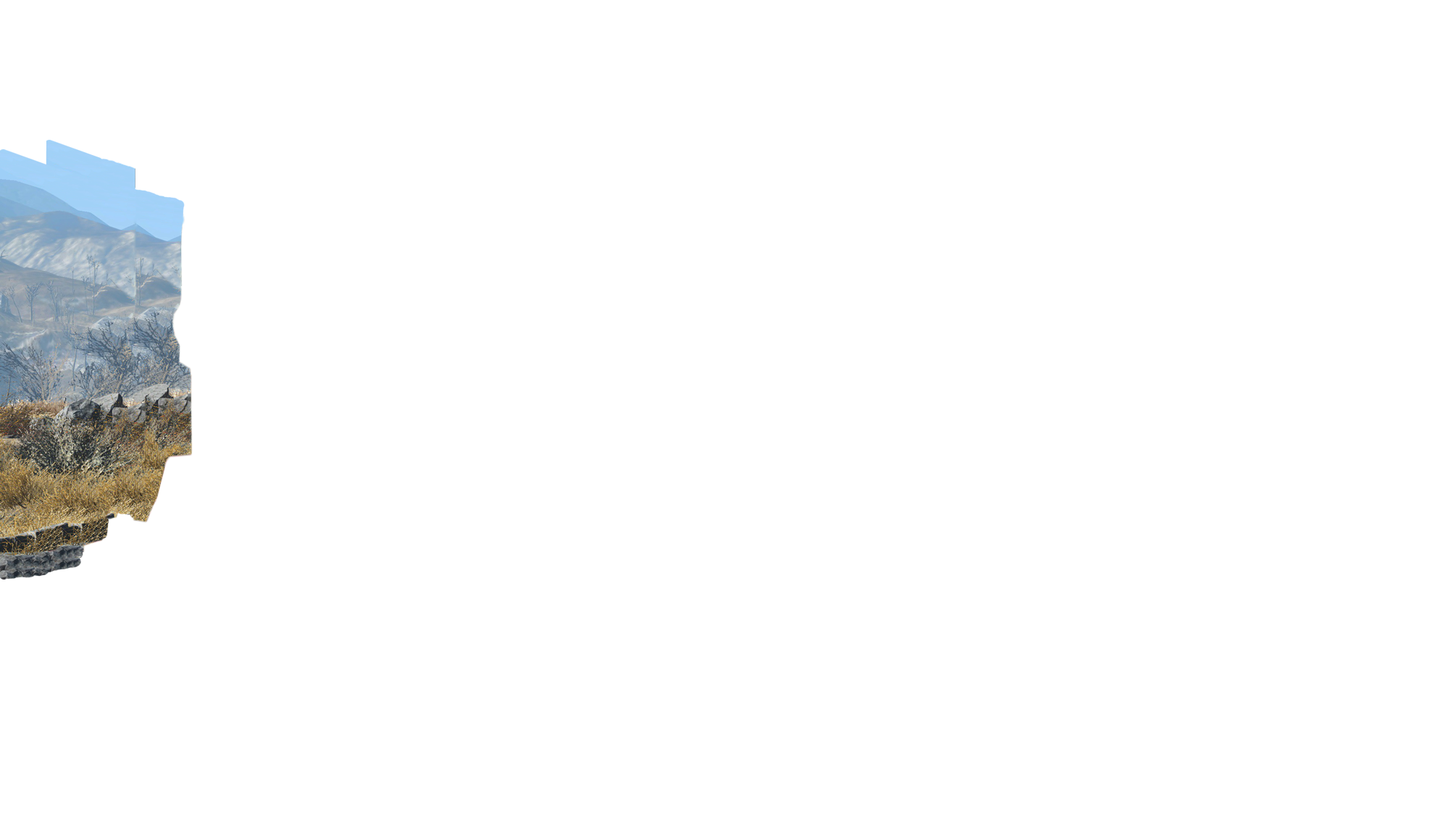
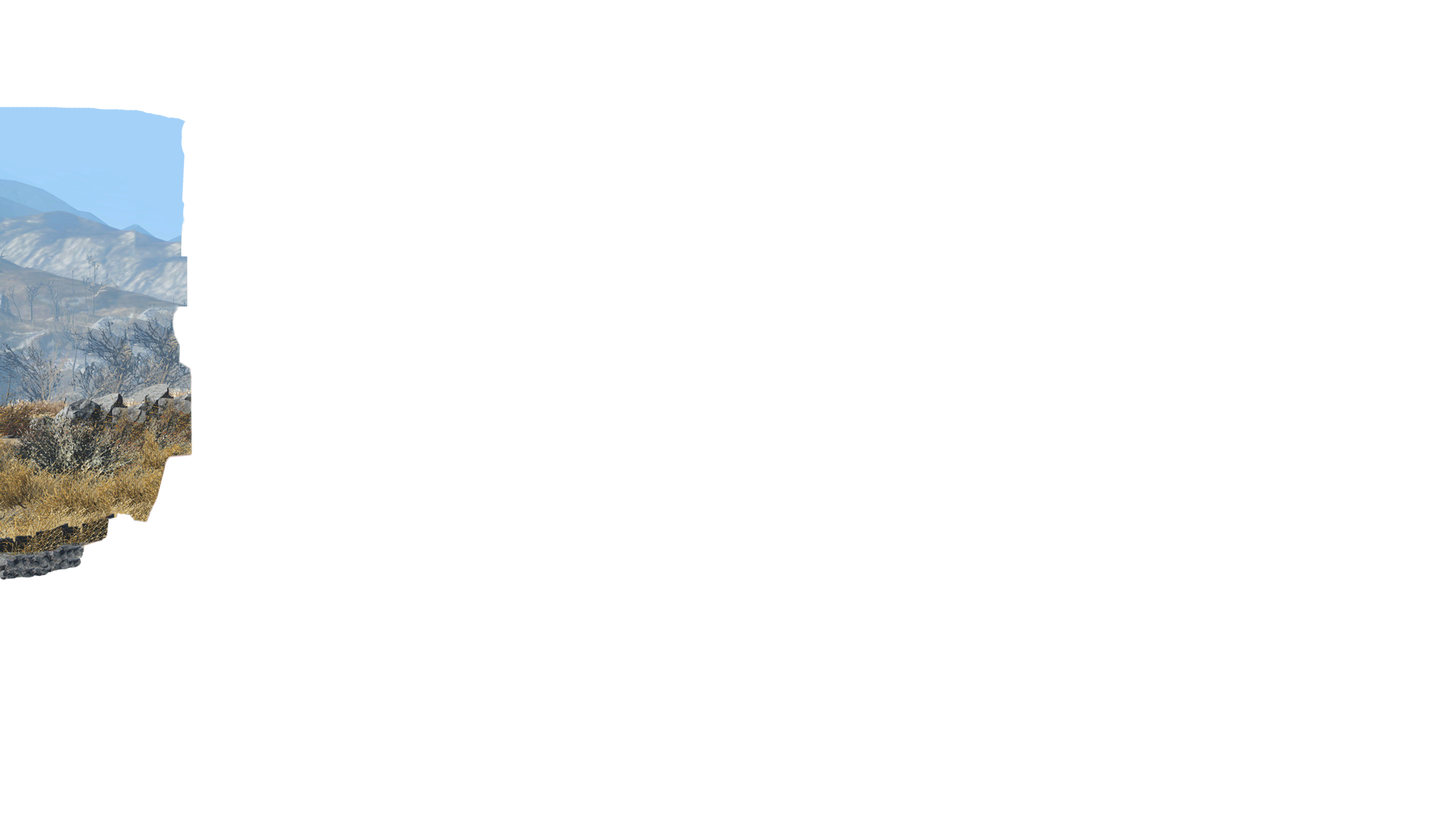
parallax step 2

diff --git a/docs/assets/styles/app.min.css b/docs/assets/styles/app.min.css
@@ -1,3 +1,3 @@
-/*! normalize.css v7.0.0 | MIT License | github.com/necolas/normalize.css */button,hr,input{overflow:visible}audio,canvas,progress,video{display:inline-block}progress,sub,sup{vertical-align:baseline}[type=checkbox],[type=radio],legend{box-sizing:border-box;padding:0}html{line-height:1.15;-ms-text-size-adjust:100%;-webkit-text-size-adjust:100%}body{margin:0}article,aside,details,figcaption,figure,footer,header,main,menu,nav,section{display:block}h1{font-size:2em;margin:.67em 0}figure{margin:1em 40px}hr{box-sizing:content-box;height:0}code,kbd,pre,samp{font-family:monospace,monospace;font-size:1em}a{background-color:transparent;-webkit-text-decoration-skip:objects}abbr[title]{border-bottom:none;text-decoration:underline;text-decoration:underline dotted}b,strong{font-weight:bolder}dfn{font-style:italic}mark{background-color:#ff0;color:#000}small{font-size:80%}sub,sup{font-size:75%;line-height:0;position:relative}sub{bottom:-.25em}sup{top:-.5em}audio:not([controls]){display:none;height:0}img{border-style:none}svg:not(:root){overflow:hidden}button,input,optgroup,select,textarea{font-family:sans-serif;font-size:100%;line-height:1.15;margin:0}button,select{text-transform:none}[type=reset],[type=submit],button,html [type=button]{-webkit-appearance:button}[type=button]::-moz-focus-inner,[type=reset]::-moz-focus-inner,[type=submit]::-moz-focus-inner,button::-moz-focus-inner{border-style:none;padding:0}[type=button]:-moz-focusring,[type=reset]:-moz-focusring,[type=submit]:-moz-focusring,button:-moz-focusring{outline:ButtonText dotted 1px}fieldset{padding:.35em .75em .625em}legend{color:inherit;display:table;max-width:100%;white-space:normal}textarea{overflow:auto}[type=number]::-webkit-inner-spin-button,[type=number]::-webkit-outer-spin-button{height:auto}[type=search]{-webkit-appearance:textfield;outline-offset:-2px}[type=search]::-webkit-search-cancel-button,[type=search]::-webkit-search-decoration{-webkit-appearance:none}::-webkit-file-upload-button{-webkit-appearance:button;font:inherit}summary{display:list-item}[hidden],template{display:none}@media screen and (max-width: 768px){html{font-size:rem(15px)}}@media screen and (max-width: 480px){html{font-size:rem(13px)}}html,body{width:100%;height:100%}body{font-size:rem(16px);line-height:1.42;position:relative;background-color:#2b2a28;-webkit-font-smoothing:antialiased}.wrapper{position:relative;width:100%;min-height:100%;overflow:hidden;min-width:400px}.page-container{margin:0 auto;position:relative;width:100%;display:flex;justify-content:center;align-items:center;flex-direction:column;justify-content:flex-start;height:auto;min-height:100vh}.responsive-img{max-width:100%;max-height:100%;margin-left:auto;margin-right:auto}h1,h2,h3,h4,h5,h6{margin-top:0;font-weight:normal}table{border-collapse:collapse;border-spacing:0}ul{padding:0;margin:0}ul li{list-style:none}p{padding:0;margin:0}footer{position:relative;width:100%}*{box-sizing:border-box}.parallax-wrapper{display:flex;flex-direction:column;justify-content:flex-start;position:relative;width:100%;height:100%;min-height:100vh;background:#2c2b29}#parallax{position:absolute;top:0;left:0;width:100%;height:100%;overflow:hidden;transform:scale(0.5)}.parallax__layer{height:100%;width:100%;position:absolute;top:0;left:0;will-change:transform}.parallax__image{position:absolute;top:0;max-height:110%;max-width:110%;user-select:none;color:black}.content{height:100%;width:100%}
+/*! normalize.css v7.0.0 | MIT License | github.com/necolas/normalize.css */button,hr,input{overflow:visible}audio,canvas,progress,video{display:inline-block}progress,sub,sup{vertical-align:baseline}[type=checkbox],[type=radio],legend{box-sizing:border-box;padding:0}html{line-height:1.15;-ms-text-size-adjust:100%;-webkit-text-size-adjust:100%}body{margin:0}article,aside,details,figcaption,figure,footer,header,main,menu,nav,section{display:block}h1{font-size:2em;margin:.67em 0}figure{margin:1em 40px}hr{box-sizing:content-box;height:0}code,kbd,pre,samp{font-family:monospace,monospace;font-size:1em}a{background-color:transparent;-webkit-text-decoration-skip:objects}abbr[title]{border-bottom:none;text-decoration:underline;text-decoration:underline dotted}b,strong{font-weight:bolder}dfn{font-style:italic}mark{background-color:#ff0;color:#000}small{font-size:80%}sub,sup{font-size:75%;line-height:0;position:relative}sub{bottom:-.25em}sup{top:-.5em}audio:not([controls]){display:none;height:0}img{border-style:none}svg:not(:root){overflow:hidden}button,input,optgroup,select,textarea{font-family:sans-serif;font-size:100%;line-height:1.15;margin:0}button,select{text-transform:none}[type=reset],[type=submit],button,html [type=button]{-webkit-appearance:button}[type=button]::-moz-focus-inner,[type=reset]::-moz-focus-inner,[type=submit]::-moz-focus-inner,button::-moz-focus-inner{border-style:none;padding:0}[type=button]:-moz-focusring,[type=reset]:-moz-focusring,[type=submit]:-moz-focusring,button:-moz-focusring{outline:ButtonText dotted 1px}fieldset{padding:.35em .75em .625em}legend{color:inherit;display:table;max-width:100%;white-space:normal}textarea{overflow:auto}[type=number]::-webkit-inner-spin-button,[type=number]::-webkit-outer-spin-button{height:auto}[type=search]{-webkit-appearance:textfield;outline-offset:-2px}[type=search]::-webkit-search-cancel-button,[type=search]::-webkit-search-decoration{-webkit-appearance:none}::-webkit-file-upload-button{-webkit-appearance:button;font:inherit}summary{display:list-item}[hidden],template{display:none}@media screen and (max-width: 768px){html{font-size:rem(15px)}}@media screen and (max-width: 480px){html{font-size:rem(13px)}}html,body{width:100%;height:100%}body{font-size:rem(16px);line-height:1.42;position:relative;background-color:#2b2a28;-webkit-font-smoothing:antialiased}.wrapper{position:relative;width:100%;min-height:100%;overflow:hidden;min-width:400px}.page-container{margin:0 auto;position:relative;width:100%;display:flex;justify-content:center;align-items:center;flex-direction:column;justify-content:flex-start;height:auto;min-height:100vh}.responsive-img{max-width:100%;max-height:100%;margin-left:auto;margin-right:auto}h1,h2,h3,h4,h5,h6{margin-top:0;font-weight:normal}table{border-collapse:collapse;border-spacing:0}ul{padding:0;margin:0}ul li{list-style:none}p{padding:0;margin:0}footer{position:relative;width:100%}*{box-sizing:border-box}.parallax-wrapper{display:flex;flex-direction:column;justify-content:flex-start;position:relative;width:100%;height:100%;min-height:100vh;background:#2c2b29}#parallax{position:absolute;top:0;left:0;width:100%;height:100%;overflow:hidden}.parallax__layer{height:100%;width:100%;position:absolute;top:0;left:0;will-change:transform;color:black}.parallax__image{position:absolute;top:0;max-height:110%;max-width:110%;user-select:none;color:black}.parallax__grass{color:black}.content{height:100%;width:100%}
 
[2 lines of base64/hex data omitted]

diff --git a/docs/assets/scripts/bundle.js b/docs/assets/scripts/bundle.js
@@ -1,6 +1,6 @@
-!function(t){function e(n){if(i[n])return i[n].exports;var o=i[n]={i:n,l:!1,exports:{}};return t[n].call(o.exports,o,o.exports,e),o.l=!0,o.exports}var i={};e.m=t,e.c=i,e.d=function(t,i,n){e.o(t,i)||Object.defineProperty(t,i,{configurable:!1,enumerable:!0,get:n})},e.n=function(t){var i=t&&t.__esModule?function(){return t.default}:function(){return t};return e.d(i,"a",i),i},e.o=function(t,e){return Object.prototype.hasOwnProperty.call(t,e)},e.p="",e(e.s=0)}([function(t,e,i){i(1)},function(t,e,i){"use strict";Object.defineProperty(e,"__esModule",{value:!0});var n=i(2),o=i.n(n);document.addEventListener("DOMContentLoaded",t=>{let e=document.getElementById("parallax");console.log(e);new o.a(e)})},function(t,e,i){(function(e){var i;!function(e){t.exports=e()}(function(){return function t(e,n,o){function r(a,l){if(!n[a]){if(!e[a]){if(!l&&("function"==typeof i&&i))return i(a,!0);if(s)return s(a,!0);var h=new Error("Cannot find module '"+a+"'");throw h.code="MODULE_NOT_FOUND",h}var u=n[a]={exports:{}};e[a][0].call(u.exports,function(t){var i=e[a][1][t];return r(i||t)},u,u.exports,t,e,n,o)}return n[a].exports}for(var s="function"==typeof i&&i,a=0;a<o.length;a++)r(o[a]);return r}({1:[function(t,e,i){/*
+!function(t){function e(n){if(i[n])return i[n].exports;var o=i[n]={i:n,l:!1,exports:{}};return t[n].call(o.exports,o,o.exports,e),o.l=!0,o.exports}var i={};e.m=t,e.c=i,e.d=function(t,i,n){e.o(t,i)||Object.defineProperty(t,i,{configurable:!1,enumerable:!0,get:n})},e.n=function(t){var i=t&&t.__esModule?function(){return t.default}:function(){return t};return e.d(i,"a",i),i},e.o=function(t,e){return Object.prototype.hasOwnProperty.call(t,e)},e.p="",e(e.s=0)}([function(t,e,i){i(1)},function(t,e,i){"use strict";Object.defineProperty(e,"__esModule",{value:!0});var n=i(2),o=i.n(n);document.addEventListener("DOMContentLoaded",t=>{let e=document.getElementById("parallax");console.log(e);new o.a(e,{clipRelativeInput:!0})})},function(t,e,i){(function(e){var i;!function(e){t.exports=e()}(function(){return function t(e,n,o){function r(a,l){if(!n[a]){if(!e[a]){var h="function"==typeof i&&i;if(!l&&h)return i(a,!0);if(s)return s(a,!0);var u=new Error("Cannot find module '"+a+"'");throw u.code="MODULE_NOT_FOUND",u}var c=n[a]={exports:{}};e[a][0].call(c.exports,function(t){var i=e[a][1][t];return r(i||t)},c,c.exports,t,e,n,o)}return n[a].exports}for(var s="function"==typeof i&&i,a=0;a<o.length;a++)r(o[a]);return r}({1:[function(t,e,i){/*
 object-assign
 (c) Sindre Sorhus
 @license MIT
 */
-"use strict";var n=Object.getOwnPropertySymbols,o=Object.prototype.hasOwnProperty,r=Object.prototype.propertyIsEnumerable;e.exports=function(){try{if(!Object.assign)return!1;var t=new String("abc");if(t[5]="de","5"===Object.getOwnPropertyNames(t)[0])return!1;for(var e={},i=0;i<10;i++)e["_"+String.fromCharCode(i)]=i;if("0123456789"!==Object.getOwnPropertyNames(e).map(function(t){return e[t]}).join(""))return!1;var n={};return"abcdefghijklmnopqrst".split("").forEach(function(t){n[t]=t}),"abcdefghijklmnopqrst"===Object.keys(Object.assign({},n)).join("")}catch(t){return!1}}()?Object.assign:function(t,e){for(var i,s,a=function(t){if(null===t||void 0===t)throw new TypeError("Object.assign cannot be called with null or undefined");return Object(t)}(t),l=1;l<arguments.length;l++){i=Object(arguments[l]);for(var h in i)o.call(i,h)&&(a[h]=i[h]);if(n){s=n(i);for(var u=0;u<s.length;u++)r.call(i,s[u])&&(a[s[u]]=i[s[u]])}}return a}},{}],2:[function(t,e,i){(function(t){(function(){var i,n,o,r,s,a;"undefined"!=typeof performance&&null!==performance&&performance.now?e.exports=function(){return performance.now()}:void 0!==t&&null!==t&&t.hrtime?(e.exports=function(){return(i()-s)/1e6},n=t.hrtime,r=(i=function(){var t;return 1e9*(t=n())[0]+t[1]})(),a=1e9*t.uptime(),s=r-a):Date.now?(e.exports=function(){return Date.now()-o},o=Date.now()):(e.exports=function(){return(new Date).getTime()-o},o=(new Date).getTime())}).call(this)}).call(this,t("_process"))},{_process:3}],3:[function(t,e,i){function n(){throw new Error("setTimeout has not been defined")}function o(){throw new Error("clearTimeout has not been defined")}function r(t){if(u===setTimeout)return setTimeout(t,0);if((u===n||!u)&&setTimeout)return u=setTimeout,setTimeout(t,0);try{return u(t,0)}catch(e){try{return u.call(null,t,0)}catch(e){return u.call(this,t,0)}}}function s(){f&&m&&(f=!1,m.length?p=m.concat(p):v=-1,p.length&&a())}function a(){if(!f){var t=r(s);f=!0;for(var e=p.length;e;){for(m=p,p=[];++v<e;)m&&m[v].run();v=-1,e=p.length}m=null,f=!1,function(t){if(c===clearTimeout)return clearTimeout(t);if((c===o||!c)&&clearTimeout)return c=clearTimeout,clearTimeout(t);try{c(t)}catch(e){try{return c.call(null,t)}catch(e){return c.call(this,t)}}}(t)}}function l(t,e){this.fun=t,this.array=e}function h(){}var u,c,d=e.exports={};!function(){try{u="function"==typeof setTimeout?setTimeout:n}catch(t){u=n}try{c="function"==typeof clearTimeout?clearTimeout:o}catch(t){c=o}}();var m,p=[],f=!1,v=-1;d.nextTick=function(t){var e=new Array(arguments.length-1);if(arguments.length>1)for(var i=1;i<arguments.length;i++)e[i-1]=arguments[i];p.push(new l(t,e)),1!==p.length||f||r(a)},l.prototype.run=function(){this.fun.apply(null,this.array)},d.title="browser",d.browser=!0,d.env={},d.argv=[],d.version="",d.versions={},d.on=h,d.addListener=h,d.once=h,d.off=h,d.removeListener=h,d.removeAllListeners=h,d.emit=h,d.prependListener=h,d.prependOnceListener=h,d.listeners=function(t){return[]},d.binding=function(t){throw new Error("process.binding is not supported")},d.cwd=function(){return"/"},d.chdir=function(t){throw new Error("process.chdir is not supported")},d.umask=function(){return 0}},{}],4:[function(t,i,n){(function(e){for(var n=t("performance-now"),o="undefined"==typeof window?e:window,r=["moz","webkit"],s="AnimationFrame",a=o["request"+s],l=o["cancel"+s]||o["cancelRequest"+s],h=0;!a&&h<r.length;h++)a=o[r[h]+"Request"+s],l=o[r[h]+"Cancel"+s]||o[r[h]+"CancelRequest"+s];if(!a||!l){var u=0,c=0,d=[];a=function(t){if(0===d.length){var e=n(),i=Math.max(0,1e3/60-(e-u));u=i+e,setTimeout(function(){var t=d.slice(0);d.length=0;for(var e=0;e<t.length;e++)if(!t[e].cancelled)try{t[e].callback(u)}catch(t){setTimeout(function(){throw t},0)}},Math.round(i))}return d.push({handle:++c,callback:t,cancelled:!1}),c},l=function(t){for(var e=0;e<d.length;e++)d[e].handle===t&&(d[e].cancelled=!0)}}i.exports=function(t){return a.call(o,t)},i.exports.cancel=function(){l.apply(o,arguments)},i.exports.polyfill=function(){o.requestAnimationFrame=a,o.cancelAnimationFrame=l}}).call(this,void 0!==e?e:"undefined"!=typeof self?self:"undefined"!=typeof window?window:{})},{"performance-now":2}],5:[function(t,e,i){"use strict";var n=function(){function t(t,e){for(var i=0;i<e.length;i++){var n=e[i];n.enumerable=n.enumerable||!1,n.configurable=!0,"value"in n&&(n.writable=!0),Object.defineProperty(t,n.key,n)}}return function(e,i,n){return i&&t(e.prototype,i),n&&t(e,n),e}}(),o=t("raf"),r=t("object-assign"),s={propertyCache:{},vendors:[null,["-webkit-","webkit"],["-moz-","Moz"],["-o-","O"],["-ms-","ms"]],clamp:function(t,e,i){return e<i?t<e?e:t>i?i:t:t<i?i:t>e?e:t},data:function(t,e){return s.deserialize(t.getAttribute("data-"+e))},deserialize:function(t){return"true"===t||"false"!==t&&("null"===t?null:!isNaN(parseFloat(t))&&isFinite(t)?parseFloat(t):t)},camelCase:function(t){return t.replace(/-+(.)?/g,function(t,e){return e?e.toUpperCase():""})},accelerate:function(t){s.css(t,"transform","translate3d(0,0,0) rotate(0.0001deg)"),s.css(t,"transform-style","preserve-3d"),s.css(t,"backface-visibility","hidden")},transformSupport:function(t){for(var e=document.createElement("div"),i=!1,n=null,o=!1,r=null,a=null,l=0,h=s.vendors.length;l<h;l++)if(null!==s.vendors[l]?(r=s.vendors[l][0]+"transform",a=s.vendors[l][1]+"Transform"):(r="transform",a="transform"),void 0!==e.style[a]){i=!0;break}switch(t){case"2D":o=i;break;case"3D":if(i){var u=document.body||document.createElement("body"),c=document.documentElement,d=c.style.overflow,m=!1;document.body||(m=!0,c.style.overflow="hidden",c.appendChild(u),u.style.overflow="hidden",u.style.background=""),u.appendChild(e),e.style[a]="translate3d(1px,1px,1px)",o=void 0!==(n=window.getComputedStyle(e).getPropertyValue(r))&&n.length>0&&"none"!==n,c.style.overflow=d,u.removeChild(e),m&&(u.removeAttribute("style"),u.parentNode.removeChild(u))}}return o},css:function(t,e,i){var n=s.propertyCache[e];if(!n)for(var o=0,r=s.vendors.length;o<r;o++)if(n=null!==s.vendors[o]?s.camelCase(s.vendors[o][1]+"-"+e):e,void 0!==t.style[n]){s.propertyCache[e]=n;break}t.style[n]=i}},a={relativeInput:!1,clipRelativeInput:!1,inputElement:null,hoverOnly:!1,calibrationThreshold:100,calibrationDelay:500,supportDelay:500,calibrateX:!1,calibrateY:!0,invertX:!0,invertY:!0,limitX:!1,limitY:!1,scalarX:10,scalarY:10,frictionX:.1,frictionY:.1,originX:.5,originY:.5,pointerEvents:!1,precision:1,onReady:null,selector:null},l=function(){function t(e,i){!function(t,e){if(!(t instanceof e))throw new TypeError("Cannot call a class as a function")}(this,t),this.element=e;var n={calibrateX:s.data(this.element,"calibrate-x"),calibrateY:s.data(this.element,"calibrate-y"),invertX:s.data(this.element,"invert-x"),invertY:s.data(this.element,"invert-y"),limitX:s.data(this.element,"limit-x"),limitY:s.data(this.element,"limit-y"),scalarX:s.data(this.element,"scalar-x"),scalarY:s.data(this.element,"scalar-y"),frictionX:s.data(this.element,"friction-x"),frictionY:s.data(this.element,"friction-y"),originX:s.data(this.element,"origin-x"),originY:s.data(this.element,"origin-y"),pointerEvents:s.data(this.element,"pointer-events"),precision:s.data(this.element,"precision"),relativeInput:s.data(this.element,"relative-input"),clipRelativeInput:s.data(this.element,"clip-relative-input"),hoverOnly:s.data(this.element,"hover-only"),inputElement:document.querySelector(s.data(this.element,"input-element")),selector:s.data(this.element,"selector")};for(var o in n)null===n[o]&&delete n[o];r(this,a,n,i),this.inputElement||(this.inputElement=this.element),this.calibrationTimer=null,this.calibrationFlag=!0,this.enabled=!1,this.depthsX=[],this.depthsY=[],this.raf=null,this.bounds=null,this.elementPositionX=0,this.elementPositionY=0,this.elementWidth=0,this.elementHeight=0,this.elementCenterX=0,this.elementCenterY=0,this.elementRangeX=0,this.elementRangeY=0,this.calibrationX=0,this.calibrationY=0,this.inputX=0,this.inputY=0,this.motionX=0,this.motionY=0,this.velocityX=0,this.velocityY=0,this.onMouseMove=this.onMouseMove.bind(this),this.onDeviceOrientation=this.onDeviceOrientation.bind(this),this.onDeviceMotion=this.onDeviceMotion.bind(this),this.onOrientationTimer=this.onOrientationTimer.bind(this),this.onMotionTimer=this.onMotionTimer.bind(this),this.onCalibrationTimer=this.onCalibrationTimer.bind(this),this.onAnimationFrame=this.onAnimationFrame.bind(this),this.onWindowResize=this.onWindowResize.bind(this),this.windowWidth=null,this.windowHeight=null,this.windowCenterX=null,this.windowCenterY=null,this.windowRadiusX=null,this.windowRadiusY=null,this.portrait=!1,this.desktop=!navigator.userAgent.match(/(iPhone|iPod|iPad|Android|BlackBerry|BB10|mobi|tablet|opera mini|nexus 7)/i),this.motionSupport=!!window.DeviceMotionEvent&&!this.desktop,this.orientationSupport=!!window.DeviceOrientationEvent&&!this.desktop,this.orientationStatus=0,this.motionStatus=0,this.initialise()}return n(t,[{key:"initialise",value:function(){void 0===this.transform2DSupport&&(this.transform2DSupport=s.transformSupport("2D"),this.transform3DSupport=s.transformSupport("3D")),this.transform3DSupport&&s.accelerate(this.element);"static"===window.getComputedStyle(this.element).getPropertyValue("position")&&(this.element.style.position="relative"),this.pointerEvents||(this.element.style.pointerEvents="none"),this.updateLayers(),this.updateDimensions(),this.enable(),this.queueCalibration(this.calibrationDelay)}},{key:"doReadyCallback",value:function(){this.onReady&&this.onReady()}},{key:"updateLayers",value:function(){this.selector?this.layers=this.element.querySelectorAll(this.selector):this.layers=this.element.children,this.layers.length||console.warn("ParallaxJS: Your scene does not have any layers."),this.depthsX=[],this.depthsY=[];for(var t=0;t<this.layers.length;t++){var e=this.layers[t];this.transform3DSupport&&s.accelerate(e),e.style.position=t?"absolute":"relative",e.style.display="block",e.style.left=0,e.style.top=0;var i=s.data(e,"depth")||0;this.depthsX.push(s.data(e,"depth-x")||i),this.depthsY.push(s.data(e,"depth-y")||i)}}},{key:"updateDimensions",value:function(){this.windowWidth=window.innerWidth,this.windowHeight=window.innerHeight,this.windowCenterX=this.windowWidth*this.originX,this.windowCenterY=this.windowHeight*this.originY,this.windowRadiusX=Math.max(this.windowCenterX,this.windowWidth-this.windowCenterX),this.windowRadiusY=Math.max(this.windowCenterY,this.windowHeight-this.windowCenterY)}},{key:"updateBounds",value:function(){this.bounds=this.inputElement.getBoundingClientRect(),this.elementPositionX=this.bounds.left,this.elementPositionY=this.bounds.top,this.elementWidth=this.bounds.width,this.elementHeight=this.bounds.height,this.elementCenterX=this.elementWidth*this.originX,this.elementCenterY=this.elementHeight*this.originY,this.elementRangeX=Math.max(this.elementCenterX,this.elementWidth-this.elementCenterX),this.elementRangeY=Math.max(this.elementCenterY,this.elementHeight-this.elementCenterY)}},{key:"queueCalibration",value:function(t){clearTimeout(this.calibrationTimer),this.calibrationTimer=setTimeout(this.onCalibrationTimer,t)}},{key:"enable",value:function(){this.enabled||(this.enabled=!0,this.orientationSupport?(this.portrait=!1,window.addEventListener("deviceorientation",this.onDeviceOrientation),this.detectionTimer=setTimeout(this.onOrientationTimer,this.supportDelay)):this.motionSupport?(this.portrait=!1,window.addEventListener("devicemotion",this.onDeviceMotion),this.detectionTimer=setTimeout(this.onMotionTimer,this.supportDelay)):(this.calibrationX=0,this.calibrationY=0,this.portrait=!1,window.addEventListener("mousemove",this.onMouseMove),this.doReadyCallback()),window.addEventListener("resize",this.onWindowResize),this.raf=o(this.onAnimationFrame))}},{key:"disable",value:function(){this.enabled&&(this.enabled=!1,this.orientationSupport?window.removeEventListener("deviceorientation",this.onDeviceOrientation):this.motionSupport?window.removeEventListener("devicemotion",this.onDeviceMotion):window.removeEventListener("mousemove",this.onMouseMove),window.removeEventListener("resize",this.onWindowResize),o.cancel(this.raf))}},{key:"calibrate",value:function(t,e){this.calibrateX=void 0===t?this.calibrateX:t,this.calibrateY=void 0===e?this.calibrateY:e}},{key:"invert",value:function(t,e){this.invertX=void 0===t?this.invertX:t,this.invertY=void 0===e?this.invertY:e}},{key:"friction",value:function(t,e){this.frictionX=void 0===t?this.frictionX:t,this.frictionY=void 0===e?this.frictionY:e}},{key:"scalar",value:function(t,e){this.scalarX=void 0===t?this.scalarX:t,this.scalarY=void 0===e?this.scalarY:e}},{key:"limit",value:function(t,e){this.limitX=void 0===t?this.limitX:t,this.limitY=void 0===e?this.limitY:e}},{key:"origin",value:function(t,e){this.originX=void 0===t?this.originX:t,this.originY=void 0===e?this.originY:e}},{key:"setInputElement",value:function(t){this.inputElement=t,this.updateDimensions()}},{key:"setPosition",value:function(t,e,i){e=e.toFixed(this.precision)+"px",i=i.toFixed(this.precision)+"px",this.transform3DSupport?s.css(t,"transform","translate3d("+e+","+i+",0)"):this.transform2DSupport?s.css(t,"transform","translate("+e+","+i+")"):(t.style.left=e,t.style.top=i)}},{key:"onOrientationTimer",value:function(){this.orientationSupport&&0===this.orientationStatus?(this.disable(),this.orientationSupport=!1,this.enable()):this.doReadyCallback()}},{key:"onMotionTimer",value:function(){this.motionSupport&&0===this.motionStatus?(this.disable(),this.motionSupport=!1,this.enable()):this.doReadyCallback()}},{key:"onCalibrationTimer",value:function(){this.calibrationFlag=!0}},{key:"onWindowResize",value:function(){this.updateDimensions()}},{key:"onAnimationFrame",value:function(){this.updateBounds();var t=this.inputX-this.calibrationX,e=this.inputY-this.calibrationY;(Math.abs(t)>this.calibrationThreshold||Math.abs(e)>this.calibrationThreshold)&&this.queueCalibration(0),this.portrait?(this.motionX=this.calibrateX?e:this.inputY,this.motionY=this.calibrateY?t:this.inputX):(this.motionX=this.calibrateX?t:this.inputX,this.motionY=this.calibrateY?e:this.inputY),this.motionX*=this.elementWidth*(this.scalarX/100),this.motionY*=this.elementHeight*(this.scalarY/100),isNaN(parseFloat(this.limitX))||(this.motionX=s.clamp(this.motionX,-this.limitX,this.limitX)),isNaN(parseFloat(this.limitY))||(this.motionY=s.clamp(this.motionY,-this.limitY,this.limitY)),this.velocityX+=(this.motionX-this.velocityX)*this.frictionX,this.velocityY+=(this.motionY-this.velocityY)*this.frictionY;for(var i=0;i<this.layers.length;i++){var n=this.layers[i],r=this.depthsX[i],a=this.depthsY[i],l=this.velocityX*(r*(this.invertX?-1:1)),h=this.velocityY*(a*(this.invertY?-1:1));this.setPosition(n,l,h)}this.raf=o(this.onAnimationFrame)}},{key:"rotate",value:function(t,e){var i=(t||0)/30,n=(e||0)/30,o=this.windowHeight>this.windowWidth;this.portrait!==o&&(this.portrait=o,this.calibrationFlag=!0),this.calibrationFlag&&(this.calibrationFlag=!1,this.calibrationX=i,this.calibrationY=n),this.inputX=i,this.inputY=n}},{key:"onDeviceOrientation",value:function(t){var e=t.beta,i=t.gamma;null!==e&&null!==i&&(this.orientationStatus=1,this.rotate(e,i))}},{key:"onDeviceMotion",value:function(t){var e=t.rotationRate.beta,i=t.rotationRate.gamma;null!==e&&null!==i&&(this.motionStatus=1,this.rotate(e,i))}},{key:"onMouseMove",value:function(t){var e=t.clientX,i=t.clientY;if(this.hoverOnly&&(e<this.elementPositionX||e>this.elementPositionX+this.elementWidth||i<this.elementPositionY||i>this.elementPositionY+this.elementHeight))return this.inputX=0,void(this.inputY=0);this.relativeInput?(this.clipRelativeInput&&(e=Math.max(e,this.elementPositionX),e=Math.min(e,this.elementPositionX+this.elementWidth),i=Math.max(i,this.elementPositionY),i=Math.min(i,this.elementPositionY+this.elementHeight)),this.elementRangeX&&this.elementRangeY&&(this.inputX=(e-this.elementPositionX-this.elementCenterX)/this.elementRangeX,this.inputY=(i-this.elementPositionY-this.elementCenterY)/this.elementRangeY)):this.windowRadiusX&&this.windowRadiusY&&(this.inputX=(e-this.windowCenterX)/this.windowRadiusX,this.inputY=(i-this.windowCenterY)/this.windowRadiusY)}},{key:"destroy",value:function(){this.disable(),clearTimeout(this.calibrationTimer),clearTimeout(this.detectionTimer),this.element.removeAttribute("style");for(var t=0;t<this.layers.length;t++)this.layers[t].removeAttribute("style");delete this.element,delete this.layers}},{key:"version",value:function(){return"3.1.0"}}]),t}();e.exports=l},{"object-assign":1,raf:4}]},{},[5])(5)})}).call(e,i(3))},function(t,e){var i;i=function(){return this}();try{i=i||Function("return this")()||(0,eval)("this")}catch(t){"object"==typeof window&&(i=window)}t.exports=i}]);
+"use strict";function n(t){if(null===t||void 0===t)throw new TypeError("Object.assign cannot be called with null or undefined");return Object(t)}var o=Object.getOwnPropertySymbols,r=Object.prototype.hasOwnProperty,s=Object.prototype.propertyIsEnumerable;e.exports=function(){try{if(!Object.assign)return!1;var t=new String("abc");if(t[5]="de","5"===Object.getOwnPropertyNames(t)[0])return!1;for(var e={},i=0;i<10;i++)e["_"+String.fromCharCode(i)]=i;if("0123456789"!==Object.getOwnPropertyNames(e).map(function(t){return e[t]}).join(""))return!1;var n={};return"abcdefghijklmnopqrst".split("").forEach(function(t){n[t]=t}),"abcdefghijklmnopqrst"===Object.keys(Object.assign({},n)).join("")}catch(t){return!1}}()?Object.assign:function(t,e){for(var i,a,l=n(t),h=1;h<arguments.length;h++){i=Object(arguments[h]);for(var u in i)r.call(i,u)&&(l[u]=i[u]);if(o){a=o(i);for(var c=0;c<a.length;c++)s.call(i,a[c])&&(l[a[c]]=i[a[c]])}}return l}},{}],2:[function(t,e,i){(function(t){(function(){var i,n,o,r,s,a;"undefined"!=typeof performance&&null!==performance&&performance.now?e.exports=function(){return performance.now()}:void 0!==t&&null!==t&&t.hrtime?(e.exports=function(){return(i()-s)/1e6},n=t.hrtime,r=(i=function(){var t;return 1e9*(t=n())[0]+t[1]})(),a=1e9*t.uptime(),s=r-a):Date.now?(e.exports=function(){return Date.now()-o},o=Date.now()):(e.exports=function(){return(new Date).getTime()-o},o=(new Date).getTime())}).call(this)}).call(this,t("_process"))},{_process:3}],3:[function(t,e,i){function n(){throw new Error("setTimeout has not been defined")}function o(){throw new Error("clearTimeout has not been defined")}function r(t){if(c===setTimeout)return setTimeout(t,0);if((c===n||!c)&&setTimeout)return c=setTimeout,setTimeout(t,0);try{return c(t,0)}catch(e){try{return c.call(null,t,0)}catch(e){return c.call(this,t,0)}}}function s(t){if(d===clearTimeout)return clearTimeout(t);if((d===o||!d)&&clearTimeout)return d=clearTimeout,clearTimeout(t);try{return d(t)}catch(e){try{return d.call(null,t)}catch(e){return d.call(this,t)}}}function a(){v&&p&&(v=!1,p.length?f=p.concat(f):y=-1,f.length&&l())}function l(){if(!v){var t=r(a);v=!0;for(var e=f.length;e;){for(p=f,f=[];++y<e;)p&&p[y].run();y=-1,e=f.length}p=null,v=!1,s(t)}}function h(t,e){this.fun=t,this.array=e}function u(){}var c,d,m=e.exports={};!function(){try{c="function"==typeof setTimeout?setTimeout:n}catch(t){c=n}try{d="function"==typeof clearTimeout?clearTimeout:o}catch(t){d=o}}();var p,f=[],v=!1,y=-1;m.nextTick=function(t){var e=new Array(arguments.length-1);if(arguments.length>1)for(var i=1;i<arguments.length;i++)e[i-1]=arguments[i];f.push(new h(t,e)),1!==f.length||v||r(l)},h.prototype.run=function(){this.fun.apply(null,this.array)},m.title="browser",m.browser=!0,m.env={},m.argv=[],m.version="",m.versions={},m.on=u,m.addListener=u,m.once=u,m.off=u,m.removeListener=u,m.removeAllListeners=u,m.emit=u,m.prependListener=u,m.prependOnceListener=u,m.listeners=function(t){return[]},m.binding=function(t){throw new Error("process.binding is not supported")},m.cwd=function(){return"/"},m.chdir=function(t){throw new Error("process.chdir is not supported")},m.umask=function(){return 0}},{}],4:[function(t,i,n){(function(e){for(var n=t("performance-now"),o="undefined"==typeof window?e:window,r=["moz","webkit"],s="AnimationFrame",a=o["request"+s],l=o["cancel"+s]||o["cancelRequest"+s],h=0;!a&&h<r.length;h++)a=o[r[h]+"Request"+s],l=o[r[h]+"Cancel"+s]||o[r[h]+"CancelRequest"+s];if(!a||!l){var u=0,c=0,d=[];a=function(t){if(0===d.length){var e=n(),i=Math.max(0,1e3/60-(e-u));u=i+e,setTimeout(function(){var t=d.slice(0);d.length=0;for(var e=0;e<t.length;e++)if(!t[e].cancelled)try{t[e].callback(u)}catch(t){setTimeout(function(){throw t},0)}},Math.round(i))}return d.push({handle:++c,callback:t,cancelled:!1}),c},l=function(t){for(var e=0;e<d.length;e++)d[e].handle===t&&(d[e].cancelled=!0)}}i.exports=function(t){return a.call(o,t)},i.exports.cancel=function(){l.apply(o,arguments)},i.exports.polyfill=function(){o.requestAnimationFrame=a,o.cancelAnimationFrame=l}}).call(this,void 0!==e?e:"undefined"!=typeof self?self:"undefined"!=typeof window?window:{})},{"performance-now":2}],5:[function(t,e,i){"use strict";function n(t,e){if(!(t instanceof e))throw new TypeError("Cannot call a class as a function")}var o=function(){function t(t,e){for(var i=0;i<e.length;i++){var n=e[i];n.enumerable=n.enumerable||!1,n.configurable=!0,"value"in n&&(n.writable=!0),Object.defineProperty(t,n.key,n)}}return function(e,i,n){return i&&t(e.prototype,i),n&&t(e,n),e}}(),r=t("raf"),s=t("object-assign"),a={propertyCache:{},vendors:[null,["-webkit-","webkit"],["-moz-","Moz"],["-o-","O"],["-ms-","ms"]],clamp:function(t,e,i){return e<i?t<e?e:t>i?i:t:t<i?i:t>e?e:t},data:function(t,e){return a.deserialize(t.getAttribute("data-"+e))},deserialize:function(t){return"true"===t||"false"!==t&&("null"===t?null:!isNaN(parseFloat(t))&&isFinite(t)?parseFloat(t):t)},camelCase:function(t){return t.replace(/-+(.)?/g,function(t,e){return e?e.toUpperCase():""})},accelerate:function(t){a.css(t,"transform","translate3d(0,0,0) rotate(0.0001deg)"),a.css(t,"transform-style","preserve-3d"),a.css(t,"backface-visibility","hidden")},transformSupport:function(t){for(var e=document.createElement("div"),i=!1,n=null,o=!1,r=null,s=null,l=0,h=a.vendors.length;l<h;l++)if(null!==a.vendors[l]?(r=a.vendors[l][0]+"transform",s=a.vendors[l][1]+"Transform"):(r="transform",s="transform"),void 0!==e.style[s]){i=!0;break}switch(t){case"2D":o=i;break;case"3D":if(i){var u=document.body||document.createElement("body"),c=document.documentElement,d=c.style.overflow,m=!1;document.body||(m=!0,c.style.overflow="hidden",c.appendChild(u),u.style.overflow="hidden",u.style.background=""),u.appendChild(e),e.style[s]="translate3d(1px,1px,1px)",o=void 0!==(n=window.getComputedStyle(e).getPropertyValue(r))&&n.length>0&&"none"!==n,c.style.overflow=d,u.removeChild(e),m&&(u.removeAttribute("style"),u.parentNode.removeChild(u))}}return o},css:function(t,e,i){var n=a.propertyCache[e];if(!n)for(var o=0,r=a.vendors.length;o<r;o++)if(n=null!==a.vendors[o]?a.camelCase(a.vendors[o][1]+"-"+e):e,void 0!==t.style[n]){a.propertyCache[e]=n;break}t.style[n]=i}},l={relativeInput:!1,clipRelativeInput:!1,inputElement:null,hoverOnly:!1,calibrationThreshold:100,calibrationDelay:500,supportDelay:500,calibrateX:!1,calibrateY:!0,invertX:!0,invertY:!0,limitX:!1,limitY:!1,scalarX:10,scalarY:10,frictionX:.1,frictionY:.1,originX:.5,originY:.5,pointerEvents:!1,precision:1,onReady:null,selector:null},h=function(){function t(e,i){n(this,t),this.element=e;var o={calibrateX:a.data(this.element,"calibrate-x"),calibrateY:a.data(this.element,"calibrate-y"),invertX:a.data(this.element,"invert-x"),invertY:a.data(this.element,"invert-y"),limitX:a.data(this.element,"limit-x"),limitY:a.data(this.element,"limit-y"),scalarX:a.data(this.element,"scalar-x"),scalarY:a.data(this.element,"scalar-y"),frictionX:a.data(this.element,"friction-x"),frictionY:a.data(this.element,"friction-y"),originX:a.data(this.element,"origin-x"),originY:a.data(this.element,"origin-y"),pointerEvents:a.data(this.element,"pointer-events"),precision:a.data(this.element,"precision"),relativeInput:a.data(this.element,"relative-input"),clipRelativeInput:a.data(this.element,"clip-relative-input"),hoverOnly:a.data(this.element,"hover-only"),inputElement:document.querySelector(a.data(this.element,"input-element")),selector:a.data(this.element,"selector")};for(var r in o)null===o[r]&&delete o[r];s(this,l,o,i),this.inputElement||(this.inputElement=this.element),this.calibrationTimer=null,this.calibrationFlag=!0,this.enabled=!1,this.depthsX=[],this.depthsY=[],this.raf=null,this.bounds=null,this.elementPositionX=0,this.elementPositionY=0,this.elementWidth=0,this.elementHeight=0,this.elementCenterX=0,this.elementCenterY=0,this.elementRangeX=0,this.elementRangeY=0,this.calibrationX=0,this.calibrationY=0,this.inputX=0,this.inputY=0,this.motionX=0,this.motionY=0,this.velocityX=0,this.velocityY=0,this.onMouseMove=this.onMouseMove.bind(this),this.onDeviceOrientation=this.onDeviceOrientation.bind(this),this.onDeviceMotion=this.onDeviceMotion.bind(this),this.onOrientationTimer=this.onOrientationTimer.bind(this),this.onMotionTimer=this.onMotionTimer.bind(this),this.onCalibrationTimer=this.onCalibrationTimer.bind(this),this.onAnimationFrame=this.onAnimationFrame.bind(this),this.onWindowResize=this.onWindowResize.bind(this),this.windowWidth=null,this.windowHeight=null,this.windowCenterX=null,this.windowCenterY=null,this.windowRadiusX=null,this.windowRadiusY=null,this.portrait=!1,this.desktop=!navigator.userAgent.match(/(iPhone|iPod|iPad|Android|BlackBerry|BB10|mobi|tablet|opera mini|nexus 7)/i),this.motionSupport=!!window.DeviceMotionEvent&&!this.desktop,this.orientationSupport=!!window.DeviceOrientationEvent&&!this.desktop,this.orientationStatus=0,this.motionStatus=0,this.initialise()}return o(t,[{key:"initialise",value:function(){void 0===this.transform2DSupport&&(this.transform2DSupport=a.transformSupport("2D"),this.transform3DSupport=a.transformSupport("3D")),this.transform3DSupport&&a.accelerate(this.element),"static"===window.getComputedStyle(this.element).getPropertyValue("position")&&(this.element.style.position="relative"),this.pointerEvents||(this.element.style.pointerEvents="none"),this.updateLayers(),this.updateDimensions(),this.enable(),this.queueCalibration(this.calibrationDelay)}},{key:"doReadyCallback",value:function(){this.onReady&&this.onReady()}},{key:"updateLayers",value:function(){this.selector?this.layers=this.element.querySelectorAll(this.selector):this.layers=this.element.children,this.layers.length||console.warn("ParallaxJS: Your scene does not have any layers."),this.depthsX=[],this.depthsY=[];for(var t=0;t<this.layers.length;t++){var e=this.layers[t];this.transform3DSupport&&a.accelerate(e),e.style.position=t?"absolute":"relative",e.style.display="block",e.style.left=0,e.style.top=0;var i=a.data(e,"depth")||0;this.depthsX.push(a.data(e,"depth-x")||i),this.depthsY.push(a.data(e,"depth-y")||i)}}},{key:"updateDimensions",value:function(){this.windowWidth=window.innerWidth,this.windowHeight=window.innerHeight,this.windowCenterX=this.windowWidth*this.originX,this.windowCenterY=this.windowHeight*this.originY,this.windowRadiusX=Math.max(this.windowCenterX,this.windowWidth-this.windowCenterX),this.windowRadiusY=Math.max(this.windowCenterY,this.windowHeight-this.windowCenterY)}},{key:"updateBounds",value:function(){this.bounds=this.inputElement.getBoundingClientRect(),this.elementPositionX=this.bounds.left,this.elementPositionY=this.bounds.top,this.elementWidth=this.bounds.width,this.elementHeight=this.bounds.height,this.elementCenterX=this.elementWidth*this.originX,this.elementCenterY=this.elementHeight*this.originY,this.elementRangeX=Math.max(this.elementCenterX,this.elementWidth-this.elementCenterX),this.elementRangeY=Math.max(this.elementCenterY,this.elementHeight-this.elementCenterY)}},{key:"queueCalibration",value:function(t){clearTimeout(this.calibrationTimer),this.calibrationTimer=setTimeout(this.onCalibrationTimer,t)}},{key:"enable",value:function(){this.enabled||(this.enabled=!0,this.orientationSupport?(this.portrait=!1,window.addEventListener("deviceorientation",this.onDeviceOrientation),this.detectionTimer=setTimeout(this.onOrientationTimer,this.supportDelay)):this.motionSupport?(this.portrait=!1,window.addEventListener("devicemotion",this.onDeviceMotion),this.detectionTimer=setTimeout(this.onMotionTimer,this.supportDelay)):(this.calibrationX=0,this.calibrationY=0,this.portrait=!1,window.addEventListener("mousemove",this.onMouseMove),this.doReadyCallback()),window.addEventListener("resize",this.onWindowResize),this.raf=r(this.onAnimationFrame))}},{key:"disable",value:function(){this.enabled&&(this.enabled=!1,this.orientationSupport?window.removeEventListener("deviceorientation",this.onDeviceOrientation):this.motionSupport?window.removeEventListener("devicemotion",this.onDeviceMotion):window.removeEventListener("mousemove",this.onMouseMove),window.removeEventListener("resize",this.onWindowResize),r.cancel(this.raf))}},{key:"calibrate",value:function(t,e){this.calibrateX=void 0===t?this.calibrateX:t,this.calibrateY=void 0===e?this.calibrateY:e}},{key:"invert",value:function(t,e){this.invertX=void 0===t?this.invertX:t,this.invertY=void 0===e?this.invertY:e}},{key:"friction",value:function(t,e){this.frictionX=void 0===t?this.frictionX:t,this.frictionY=void 0===e?this.frictionY:e}},{key:"scalar",value:function(t,e){this.scalarX=void 0===t?this.scalarX:t,this.scalarY=void 0===e?this.scalarY:e}},{key:"limit",value:function(t,e){this.limitX=void 0===t?this.limitX:t,this.limitY=void 0===e?this.limitY:e}},{key:"origin",value:function(t,e){this.originX=void 0===t?this.originX:t,this.originY=void 0===e?this.originY:e}},{key:"setInputElement",value:function(t){this.inputElement=t,this.updateDimensions()}},{key:"setPosition",value:function(t,e,i){e=e.toFixed(this.precision)+"px",i=i.toFixed(this.precision)+"px",this.transform3DSupport?a.css(t,"transform","translate3d("+e+","+i+",0)"):this.transform2DSupport?a.css(t,"transform","translate("+e+","+i+")"):(t.style.left=e,t.style.top=i)}},{key:"onOrientationTimer",value:function(){this.orientationSupport&&0===this.orientationStatus?(this.disable(),this.orientationSupport=!1,this.enable()):this.doReadyCallback()}},{key:"onMotionTimer",value:function(){this.motionSupport&&0===this.motionStatus?(this.disable(),this.motionSupport=!1,this.enable()):this.doReadyCallback()}},{key:"onCalibrationTimer",value:function(){this.calibrationFlag=!0}},{key:"onWindowResize",value:function(){this.updateDimensions()}},{key:"onAnimationFrame",value:function(){this.updateBounds();var t=this.inputX-this.calibrationX,e=this.inputY-this.calibrationY;(Math.abs(t)>this.calibrationThreshold||Math.abs(e)>this.calibrationThreshold)&&this.queueCalibration(0),this.portrait?(this.motionX=this.calibrateX?e:this.inputY,this.motionY=this.calibrateY?t:this.inputX):(this.motionX=this.calibrateX?t:this.inputX,this.motionY=this.calibrateY?e:this.inputY),this.motionX*=this.elementWidth*(this.scalarX/100),this.motionY*=this.elementHeight*(this.scalarY/100),isNaN(parseFloat(this.limitX))||(this.motionX=a.clamp(this.motionX,-this.limitX,this.limitX)),isNaN(parseFloat(this.limitY))||(this.motionY=a.clamp(this.motionY,-this.limitY,this.limitY)),this.velocityX+=(this.motionX-this.velocityX)*this.frictionX,this.velocityY+=(this.motionY-this.velocityY)*this.frictionY;for(var i=0;i<this.layers.length;i++){var n=this.layers[i],o=this.depthsX[i],s=this.depthsY[i],l=this.velocityX*(o*(this.invertX?-1:1)),h=this.velocityY*(s*(this.invertY?-1:1));this.setPosition(n,l,h)}this.raf=r(this.onAnimationFrame)}},{key:"rotate",value:function(t,e){var i=(t||0)/30,n=(e||0)/30,o=this.windowHeight>this.windowWidth;this.portrait!==o&&(this.portrait=o,this.calibrationFlag=!0),this.calibrationFlag&&(this.calibrationFlag=!1,this.calibrationX=i,this.calibrationY=n),this.inputX=i,this.inputY=n}},{key:"onDeviceOrientation",value:function(t){var e=t.beta,i=t.gamma;null!==e&&null!==i&&(this.orientationStatus=1,this.rotate(e,i))}},{key:"onDeviceMotion",value:function(t){var e=t.rotationRate.beta,i=t.rotationRate.gamma;null!==e&&null!==i&&(this.motionStatus=1,this.rotate(e,i))}},{key:"onMouseMove",value:function(t){var e=t.clientX,i=t.clientY;if(this.hoverOnly&&(e<this.elementPositionX||e>this.elementPositionX+this.elementWidth||i<this.elementPositionY||i>this.elementPositionY+this.elementHeight))return this.inputX=0,void(this.inputY=0);this.relativeInput?(this.clipRelativeInput&&(e=Math.max(e,this.elementPositionX),e=Math.min(e,this.elementPositionX+this.elementWidth),i=Math.max(i,this.elementPositionY),i=Math.min(i,this.elementPositionY+this.elementHeight)),this.elementRangeX&&this.elementRangeY&&(this.inputX=(e-this.elementPositionX-this.elementCenterX)/this.elementRangeX,this.inputY=(i-this.elementPositionY-this.elementCenterY)/this.elementRangeY)):this.windowRadiusX&&this.windowRadiusY&&(this.inputX=(e-this.windowCenterX)/this.windowRadiusX,this.inputY=(i-this.windowCenterY)/this.windowRadiusY)}},{key:"destroy",value:function(){this.disable(),clearTimeout(this.calibrationTimer),clearTimeout(this.detectionTimer),this.element.removeAttribute("style");for(var t=0;t<this.layers.length;t++)this.layers[t].removeAttribute("style");delete this.element,delete this.layers}},{key:"version",value:function(){return"3.1.0"}}]),t}();e.exports=h},{"object-assign":1,raf:4}]},{},[5])(5)})}).call(e,i(3))},function(t,e){var i;i=function(){return this}();try{i=i||Function("return this")()||(0,eval)("this")}catch(t){"object"==typeof window&&(i=window)}t.exports=i}]);

diff --git a/docs/index.html b/docs/index.html
@@ -16,10 +16,11 @@
       <div class="page-container">
         <div class="parallax-wrapper">
           <div id="parallax">
-            <div class="parallax__layer responsive-img" data-depth="0.2"><img class="parallax__image" src="./assets/images/parallax/back.png"></div>
-            <div class="parallax__layer responsive-img" data-depth="0.4"><img class="parallax__image" src="./assets/images/parallax/hangar.png"></div>
-            <div class="parallax__layer responsive-img" data-depth="0.6"><img class="parallax__image" src="./assets/images/parallax/roof.png"></div>
-            <div class="parallax__layer responsive-img" data-depth="0.7"><img class="parallax__image" src="./assets/images/parallax/grass.png"></div>
+            <div class="parallax__layer responsive-img parallax__bg" data-depth="0.1"><img class="parallax__image" src="./assets/images/parallax/back.png"></div>
+            <div class="parallax__layer responsive-img parallax__inner" data-depth="0.35"><img class="parallax__image" src="./assets/images/parallax/inner.png"></div>
+            <div class="parallax__layer responsive-img parallax__hangar" data-depth="0.5"><img class="parallax__image" src="./assets/images/parallax/hangar.png"></div>
+            <div class="parallax__layer responsive-img parallax__roof" data-depth="0.6"><img class="parallax__image" src="./assets/images/parallax/roof.png"></div>
+            <div class="parallax__layer responsive-img parallax__grass" data-depth="0.8"><img class="parallax__image" src="./assets/images/parallax/grass.png"></div>
           </div>
         </div>
         <div class="content"></div>

diff --git a/src/styles/components/parallax.scss b/src/styles/components/parallax.scss
@@ -16,7 +16,7 @@
     width: 100%;
     height: 100%;
     overflow: hidden;
-    transform: scale(.5);
+    // transform: scale(.5) translateX(-100px);
 }
 
 .parallax__layer {
@@ -25,7 +25,9 @@
     position: absolute;
     top: 0;
     left: 0;
+    // transform: translateX(200px);
     will-change: transform;
+    color: black;
 }
 
 .parallax__image {
@@ -35,5 +37,9 @@
     max-width: 110%;
     user-select: none;
     color: black;
-    // transform: translateX(-5%);
+  }
+
+  .parallax__grass {
+    // transform: translateY(-150%);
+    color: black;
   }

diff --git a/src/scripts/components/parallax.js b/src/scripts/components/parallax.js
@@ -3,7 +3,9 @@ import Parallax from 'parallax-js';
 document.addEventListener("DOMContentLoaded", (e) => {
     let parallax = document.getElementById('parallax');
     console.log(parallax);
-    var parallaxInstance = new Parallax(parallax);
+    var parallaxInstance = new Parallax(parallax, {
+        clipRelativeInput: true
+    });
 });
 
 
